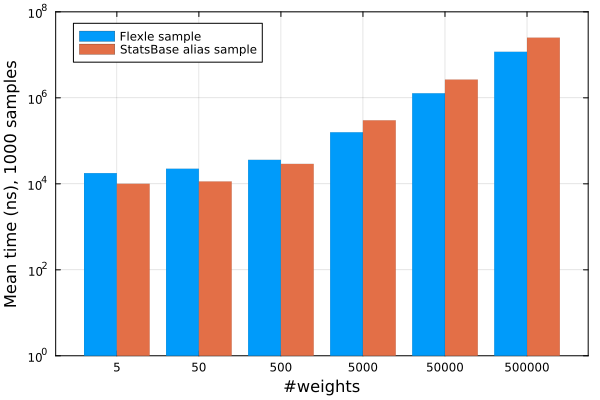
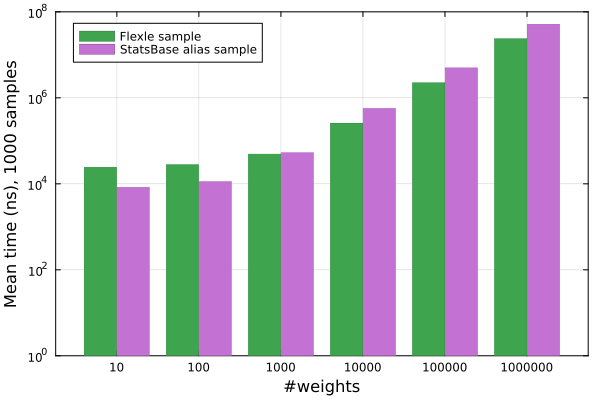
more benchmarking w/ complex operations, still wip

diff --git a/benchmarking.md b/benchmarking.md
@@ -5,21 +5,21 @@ for Flexle performance.
 
 ## Benchmarking
 
-Flexle.j is a performance-focused package. Below are several benchmarks comparing the runtime of various
+Flexle.jl is a performance-focused package. Below are several benchmarks comparing the runtime of various
 Flexle operations to their StatsBase.jl equivalents.[^3]
 
 [^3]: See `test/test_runtime.jl` for code used to generate these graphs.
 
 ### Sampling
 
-To assess raw sampling performance, we measured time to sample from a random weights vector (elements drawn
-from $U[0,1)$) of size $5*10^k$ for $k \in [0 .. 5]$. Graphs show mean time in nanoseconds to perform a single
+To assess raw sampling performance, we measured time to sample from a random weights vector (weights drawn
+from a uniform distribution between 0 and 1) of size $10^k$ for $k \in [1 .. 6]$. Graphs show mean time in nanoseconds to perform a single
 sample from a `Weights` vector in the case of StatsBase or a `FlexleSampler` in that of Flexle. These numbers
 include only sampling time, excluding time to compute the relevant data structure.
 
 | ![Figure 1](docs/assets/01_compare_sampling.png) |
 |:--:|
-|*Figure 1: Comparison of raw sample runtime for* `Flexle.sample` *versus* `StatsBase.sample`. |
+|*Figure 1: Comparison of raw sample runtime for `Flexle.sample` versus `StatsBase.sample`.* |
 
 For larger weights vectors (i.e. those $\geq 50$ in size), Flexle far outperforms StatsBase in sampling time.
 For smaller weights vectors, there is no substantial difference in runtime. Solely in terms of sampling,
@@ -34,12 +34,12 @@ structure (the alias table or flexle sampler, respectively) and to take the spec
 
 | ![Figure 2a](docs/assets/02_compare_sampling_alias_100.png) ![Figure 2b](docs/assets/02_compare_sampling_alias_1000.png) ![Figure 2c](docs/assets/02_compare_sampling_alias_10000.png) ![Figure 2d](docs/assets/02_compare_sampling_alias_100000.png) |
 |:--:|
-|*Figure 2: Comparison of runtime for `Flexle.sample` *versus* `StatsBase.alias_sample!`*, including both sampling and data structure initialization.* |
+|*Figure 2: Comparison of runtime for `Flexle.sample` versus `StatsBase.alias_sample!`, including both sampling and data structure initialization.* |
 
 In this case, the alias method performs better for smaller weights vectors, while Flexle performs better for
 larger ones. The dividing line of identical performance depends on the number of samples. As a rough guideline,
 when taking $n$ samples from a vector of $m$ weights, one can expect runtime to be best using the alias method
-if $n > 2m$ and Flexle if $n < 2m$.
+if $n > m$ and Flexle if $n < m$.
 
 ### Updating weights
 
@@ -48,9 +48,9 @@ existing alias table without simply regenerating it from scratch, a process whic
 of weights.
 
 By contrast, an existing `FlexleSampler` can be adjusted incrementally. Specially, a weight can be:
-- updated—$O(1)$ time
-- added—$O(1)$ time (amortized)
-- removed—$O(m)$ time
+- updated: $O(1)$ time
+- added: $O(1)$ time (amortized)
+- removed: $O(m)$ time
 
 To demonstrate this, consider the following sequence of operations that can be implemented using either Flexle
 or StatsBase. The sequence is intended to replicate the behavior of performing weighted random samples in practice,
@@ -60,19 +60,24 @@ with other computations; the operations themselves are arbitrary other than to d
 Given a number of iterations $r$ and either a vector of weights or a `FlexleSampler` corresponding to those weights
 (either one denoted by $w$):
 ```
-v = w[sample(w)]                 # pick a random element from w and read its weight, v
-f = first_decimal_place(v)       # call a function that gets the first number following the decimal point in v
+v = w[sample(w)]                  # pick a random element from w and read its weight, v
+f = first_decimal_place(v)        # call a function that gets the first number following the decimal point in v
 
-if f==0, delete v from w         # 1/10th of the time, delete an existing element
-if f==5, add 7v to the end of w  # 1/10th of the time, add a new element
-else, let v be 2v                # the remaining 8/10ths of the time, update an existing element
+if f==0, delete v from w          # 1/10th of the time, delete an existing element
+if f==5, add v/7 to the end of w  # 1/10th of the time, add a new element
+else, let v be 2v                 # the remaining 8/10ths of the time, update an existing element
 
 repeat r times
 ```
 
 The following shows the runtime of (1) initializing a vector of weights and all appropriate data structures, plus
-(2) running the above algorithm for random weights vectors as above[^4] for $10^3$, $10^6$, or $10^9$ iterations.
+(2) running the above algorithm for random weights vectors as above[^4] for $10^j$ iterations with $j \in [2 .. 5]$.
+
+| ![Figure 3a](docs/assets/03_compare_ops_1000.png) ![Figure 3b](docs/assets/03_compare_ops_10000.png) ![Figure 3c](docs/assets/03_compare_ops_100000.png) ![Figure 3d](docs/assets/03_compare_ops_1000000.png) |
+|:--:|
+|*Figure 3: Comparison of runtime for Flexle versus StatsBase (default sampling algorithm) to perform the aforementioned arbitrary sequence of operations.* |
+
+For all numbers of iterations and sizes of weights vectors assessed, Flexle outperforms StatsBase by around 0.5 to
+2 orders of magnitude, even including the extra time necessary to initialize the `FlexleSampler`.
 
 [^4]: excluding that of size $5$, as too many removals can easily result in an empty weights vector
-
-

diff --git a/README.md b/README.md
@@ -21,8 +21,8 @@ performed by first using the cumulative distribution function of the levels to s
 rejection sampling to select an element from the chosen level.
 
 The primary conceptual change to Defazio's method is in allowing **unlimited dynamic range of weights**.
-As its weights are updated, a `FlexleSampler` adaptively adds and removes levels to accommodate. Along with
-storing weights separately from the levels themselves, this means that Flexle can in principle be used to model
+As its weights are updated, a `FlexleSampler` adaptively adds and removes levels to accommodate. This along
+with storing weights separately from the levels themselves means that Flexle can in principle be used to model
 any discrete distribution, including one where a subset of events happen with probability 0.
 
 
